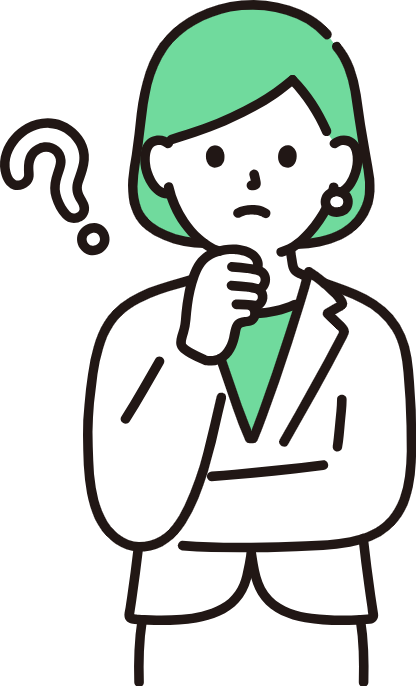
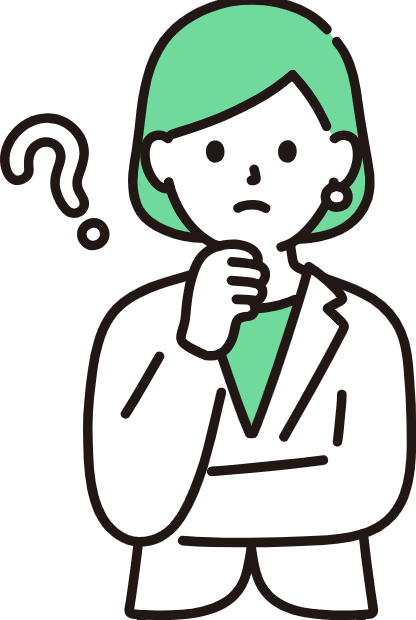
update_link

diff --git a/index.html b/index.html
@@ -47,6 +47,9 @@
 
         .problem-img{
             width: 100%;
+            height: 100%;
+            object-fit: cover;
+            object-position: top;
         }
         
         .feature-card {
@@ -140,7 +143,7 @@
 
         </div>
         <div class="flex flex-col sm:flex-row gap-4 justify-center">
-            <button class="bg-green-600 text-white px-8 py-4 rounded-lg font-semibold hover:bg-green-700 transition-colors shadow-lg">
+            <button onclick="location.href = 'https://docs.google.com/forms/d/e/1FAIpQLScFqy2Ki8nupCH4y3QMY1HuaWKQwguWmg5crewtq427eg23Qg/viewform?usp=dialog'" class="bg-green-600 text-white px-8 py-4 rounded-lg font-semibold hover:bg-green-700 transition-colors shadow-lg">
                 <i class="fas fa-download mr-2"></i>無料チェックリストを受け取る
             </button>
             <button class="border-2 border-green-600 text-green-600 px-8 py-4 rounded-lg font-semibold hover:bg-green-50 transition-colors">
@@ -156,7 +159,7 @@
             
             <div class="grid md:grid-cols-2 lg:grid-cols-4 gap-6 mb-12">
                 <div class="bg-white p-6 rounded-xl shadow-md text-center">
-                    <div class="w-22 h-22 bg-red-100 rounded-full flex items-center justify-center mx-auto mb-4">
+                    <div class="w-32 h-32 bg-red-100 rounded-full flex items-center justify-center mx-auto mb-4 overflow-hidden">
                         <!-- <i class="fas fa-question-circle text-red-500 text-xl"></i> -->
                         <img class="problem-img" src="images/25017.png" alt="">
                     </div>
@@ -164,7 +167,7 @@
                 </div>
                 
                 <div class="bg-white p-6 rounded-xl shadow-md text-center">
-                    <div class="w-22 h-22 bg-blue-100 rounded-full flex items-center justify-center mx-auto mb-4">
+                    <div class="w-32 h-32 bg-blue-100 rounded-full flex items-center justify-center mx-auto mb-4 overflow-hidden">
                         <!-- <i class="fas fa-file-alt text-blue-500 text-xl"></i> -->
                         <img class="problem-img" src="images/18736.png" alt="">
                     </div>
@@ -172,7 +175,7 @@
                 </div>
                 
                 <div class="bg-white p-6 rounded-xl shadow-md text-center">
-                    <div class="w-22 h-22 bg-yellow-100 rounded-full flex items-center justify-center mx-auto mb-4">
+                    <div class="w-32 h-32 bg-yellow-100 rounded-full flex items-center justify-center mx-auto mb-4 overflow-hidden">
                         <!-- <i class="fas fa-clock text-yellow-500 text-xl"></i> -->
                         <img class="problem-img" src="images/9933.png" alt="">
                     </div>
@@ -180,7 +183,7 @@
                 </div>
                 
                 <div class="bg-white p-6 rounded-xl shadow-md text-center">
-                    <div class="w-22 h-22 bg-purple-100 rounded-full flex items-center justify-center mx-auto mb-4">
+                    <div class="w-32 h-32 bg-purple-100 rounded-full flex items-center justify-center mx-auto mb-4 overflow-hidden">
                         <!-- <i class="fas fa-cog text-purple-500 text-xl"></i> -->
                         <img class="problem-img" src="images/17038.png" alt="">
                     </div>
@@ -321,7 +324,7 @@
                             <i class="fas fa-check text-green-500 mr-2"></i>基本サポート
                         </li>
                     </ul>
-                    <button class="w-full bg-gray-100 text-gray-700 py-3 rounded-lg font-semibold hover:bg-gray-200 transition-colors">
+                    <button onclick="location.href = 'https://docs.google.com/forms/d/e/1FAIpQLScFqy2Ki8nupCH4y3QMY1HuaWKQwguWmg5crewtq427eg23Qg/viewform?usp=dialog'" class="w-full bg-gray-100 text-gray-700 py-3 rounded-lg font-semibold hover:bg-gray-200 transition-colors">
                         今すぐ始める
                     </button>
                 </div>
@@ -345,8 +348,8 @@
                             <i class="fas fa-check text-green-500 mr-2"></i>優先サポート
                         </li>
                     </ul>
-                    <button class="w-full bg-green-600 text-white py-3 rounded-lg font-semibold hover:bg-green-700 transition-colors">
-                        14日間無料で試す
+                    <button onclick="location.href = 'https://docs.google.com/forms/d/e/1FAIpQLScFqy2Ki8nupCH4y3QMY1HuaWKQwguWmg5crewtq427eg23Qg/viewform?usp=dialog'" class="w-full bg-green-600 text-white py-3 rounded-lg font-semibold hover:bg-green-700 transition-colors">
+                        30日間無料で試す
                     </button>
                 </div>
                 
@@ -369,8 +372,8 @@
                             <i class="fas fa-check text-green-500 mr-2"></i>税理士Q&A（予定）
                         </li>
                     </ul>
-                    <button class="w-full bg-gray-100 text-gray-700 py-3 rounded-lg font-semibold hover:bg-gray-200 transition-colors">
-                        14日間無料で試す
+                    <button onclick="location.href = 'https://docs.google.com/forms/d/e/1FAIpQLScFqy2Ki8nupCH4y3QMY1HuaWKQwguWmg5crewtq427eg23Qg/viewform?usp=dialog'" class="w-full bg-gray-100 text-gray-700 py-3 rounded-lg font-semibold hover:bg-gray-200 transition-colors">
+                        30日間無料で試す
                     </button>
                 </div>
             </div>
@@ -425,8 +428,8 @@
             <p class="text-xl text-gray-600 mb-8">無料で今すぐダウンロードできます。</p>
             
             <div class="flex flex-col sm:flex-row gap-4 justify-center mb-8">
-                <button class="bg-green-600 text-white px-8 py-4 rounded-lg font-semibold hover:bg-green-700 transition-colors shadow-lg">
-                    <i class="fas fa-download mr-2"></i>無料チェックリストを受け取る
+                <button onclick="location.href = 'https://docs.google.com/forms/d/e/1FAIpQLScFqy2Ki8nupCH4y3QMY1HuaWKQwguWmg5crewtq427eg23Qg/viewform?usp=dialog'" class="bg-green-600 text-white px-8 py-4 rounded-lg font-semibold hover:bg-green-700 transition-colors shadow-lg">
+                    <i class="fas fa-download mr-2"></i>無料で始める
                 </button>
                 <button class="border-2 border-green-600 text-green-600 px-8 py-4 rounded-lg font-semibold hover:bg-green-50 transition-colors">
                     <i class="fab fa-line mr-2"></i>LINEで始める
@@ -460,7 +463,7 @@
     </footer>
 
     <!-- Fixed CTA Button -->
-    <button class="fixed-cta bg-green-600 text-white px-6 py-3 rounded-full font-semibold hover:bg-green-700 transition-colors">
+    <button onclick="location.href = 'https://docs.google.com/forms/d/e/1FAIpQLScFqy2Ki8nupCH4y3QMY1HuaWKQwguWmg5crewtq427eg23Qg/viewform?usp=dialog'" class="fixed-cta bg-green-600 text-white px-6 py-3 rounded-full font-semibold hover:bg-green-700 transition-colors">
         <i class="fas fa-download mr-2"></i>無料で始める
     </button>
 
